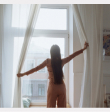
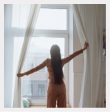
Added pictures to the Content section

Changed region(s): [[0.9545, 0.0268, 1.0, 0.9643], [0.0, 0.0268, 0.0545, 0.9643]]

diff --git a/src/components/ContentSection/ContentSection.jsx b/src/components/ContentSection/ContentSection.jsx
@@ -1,5 +1,53 @@
 import RatingBlock from "components/common/RatingBlock/RatingBlock";
 
+import firstImageMobile1 from "../../images/pictures/contentSection/image1-1x@-428.jpg";
+import firstImageMobile2 from "../../images/pictures/contentSection/image1-2x@-428.jpg";
+
+import firstImageDesctop1 from "../../images/pictures/contentSection/image1-1x@-1464.jpg";
+import firstImageDesctop2 from "../../images/pictures/contentSection/image1-2x@-1464.jpg";
+
+import secondImageMobile1 from "../../images/pictures/contentSection/image2-1x@-428.jpg";
+import secondImageMobile2 from "../../images/pictures/contentSection/image2-2x@-428.jpg";
+
+import secondImageDesctop1 from "../../images/pictures/contentSection/image2-1x@-1464.jpg";
+import secondImageDesctop2 from "../../images/pictures/contentSection/image2-2x@-1464.jpg";
+
+import thirdImageMobile1 from "../../images/pictures/contentSection/image3-1x@-428.jpg";
+import thirdImageMobile2 from "../../images/pictures/contentSection/image3-2x@-428.jpg";
+
+import thirdImageDesctop1 from "../../images/pictures/contentSection/image3-1x@-1464.jpg";
+import thirdImageDesctop2 from "../../images/pictures/contentSection/image3-2x@-1464.jpg";
+
+import fourthImageMobile1 from "../../images/pictures/contentSection/image4-1x@-428.jpg";
+import fourthImageMobile2 from "../../images/pictures/contentSection/image4-2x@-428.jpg";
+
+import fourthImageDesctop1 from "../../images/pictures/contentSection/image4-1x@-1464.jpg";
+import fourthImageDesctop2 from "../../images/pictures/contentSection/image4-2x@-1464.jpg";
+
+import fifthImageMobile1 from "../../images/pictures/contentSection/image5-1x@-428.jpg";
+import fifthImageMobile2 from "../../images/pictures/contentSection/image5-2x@-428.jpg";
+
+import fifthImageDesctop1 from "../../images/pictures/contentSection/image5-1x@-1464.jpg";
+import fifthImageDesctop2 from "../../images/pictures/contentSection/image5-2x@-1464.jpg";
+
+import sixthImageMobile1 from "../../images/pictures/contentSection/image6-1x@-428.jpg";
+import sixthImageMobile2 from "../../images/pictures/contentSection/image6-2x@-428.jpg";
+
+import sixthImageDesctop1 from "../../images/pictures/contentSection/image6-1x@-1464.jpg";
+import sixthImageDesctop2 from "../../images/pictures/contentSection/image6-2x@-1464.jpg";
+
+import seventhImageMobile1 from "../../images/pictures/contentSection/image7-1x@-428.jpg";
+import seventhImageMobile2 from "../../images/pictures/contentSection/image7-2x@-428.jpg";
+
+import seventhImageDesctop1 from "../../images/pictures/contentSection/image7-1x@-1464.jpg";
+import seventhImageDesctop2 from "../../images/pictures/contentSection/image7-2x@-1464.jpg";
+
+import eighthImageMobile1 from "../../images/pictures/contentSection/image8-1x@-428.jpg";
+import eighthImageMobile2 from "../../images/pictures/contentSection/image8-2x@-428.jpg";
+
+import eighthImageDesctop1 from "../../images/pictures/contentSection/image8-1x@-1464.jpg";
+import eighthImageDesctop2 from "../../images/pictures/contentSection/image8-2x@-1464.jpg";
+
 import {
   Section,
   Title,
@@ -19,55 +67,210 @@ export default function ContentSection() {
         consequat. Fusce non nibh luctus.
       </Text>
       <ListPhoto>
+        {/* 1 */}
         <ListPhotoItem>
-          <ListPhotoItemImage
-            src="https://cdn.pixabay.com/photo/2019/05/14/22/05/container-4203677__340.jpg"
-            alt="Description"
-          ></ListPhotoItemImage>
+          <ListPhotoItemImage>
+            <source
+              srcSet={`${firstImageDesctop1} 1x, ${firstImageDesctop2} 2x`}
+              media="(min-width:1464px)"
+            />
+            <source
+              srcSet={`${firstImageDesctop1} 1x, ${firstImageDesctop2} 2x`}
+              media="(min-width:428px)"
+            />
+            <img
+              src={firstImageMobile2}
+              loading="lazy"
+              alt="Girl"
+              width={"100px"}
+            ></img>
+          </ListPhotoItemImage>
         </ListPhotoItem>
+        {/* 2*/}
         <ListPhotoItem>
-          <ListPhotoItemImage
-            src="https://cdn.pixabay.com/photo/2019/05/14/22/05/container-4203677__340.jpg"
-            alt="Description"
-          ></ListPhotoItemImage>
+          <ListPhotoItemImage>
+            <source
+              srcSet={`${secondImageDesctop1} 1x, ${secondImageDesctop2} 2x`}
+              media="(min-width:1464px)"
+            />
+            <source
+              srcSet={`${secondImageDesctop1} 1x, ${secondImageDesctop2} 2x`}
+              media="(min-width:428px)"
+            />
+            <img
+              src={secondImageMobile2}
+              loading="lazy"
+              alt="Girl"
+              width={"100px"}
+            ></img>
+          </ListPhotoItemImage>
         </ListPhotoItem>
+        {/* 3 */}
         <ListPhotoItem>
-          <ListPhotoItemImage
-            src="https://cdn.pixabay.com/photo/2019/05/14/22/05/container-4203677__340.jpg"
-            alt="Description"
-          ></ListPhotoItemImage>
+          <ListPhotoItemImage>
+            <source
+              srcSet={`${thirdImageDesctop1} 1x, ${thirdImageDesctop2} 2x`}
+              media="(min-width:1464px)"
+            />
+            <source
+              srcSet={`${thirdImageDesctop1} 1x, ${thirdImageDesctop2} 2x`}
+              media="(min-width:428px)"
+            />
+            <img
+              src={thirdImageMobile2}
+              loading="lazy"
+              alt="Girl"
+              width={"100px"}
+            ></img>
+          </ListPhotoItemImage>
         </ListPhotoItem>
+
+        {/* 4 */}
         <ListPhotoItem>
-          <ListPhotoItemImage
-            src="https://cdn.pixabay.com/photo/2019/05/14/22/05/container-4203677__340.jpg"
-            alt="Description"
-          ></ListPhotoItemImage>
+          <ListPhotoItemImage>
+            <source
+              srcSet={`${fourthImageDesctop1} 1x, ${fourthImageDesctop2} 2x`}
+              media="(min-width:1464px)"
+            />
+            <source
+              srcSet={`${fourthImageDesctop1} 1x, ${fourthImageDesctop2} 2x`}
+              media="(min-width:428px)"
+            />
+            <img
+              src={fourthImageMobile2}
+              loading="lazy"
+              alt="Girl"
+              width={"100px"}
+            ></img>
+          </ListPhotoItemImage>
         </ListPhotoItem>
+        {/* 5 */}
         <ListPhotoItem>
-          <ListPhotoItemImage
-            src="https://cdn.pixabay.com/photo/2019/05/14/22/05/container-4203677__340.jpg"
-            alt="Description"
-          ></ListPhotoItemImage>
+          <ListPhotoItemImage>
+            <source
+              srcSet={`${fifthImageDesctop1} 1x, ${fifthImageDesctop2} 2x`}
+              media="(min-width:1464px)"
+            />
+            <source
+              srcSet={`${fifthImageDesctop1} 1x, ${fifthImageDesctop2} 2x`}
+              media="(min-width:428px)"
+            />
+            <img
+              src={fifthImageMobile2}
+              loading="lazy"
+              alt="Girl"
+              width={"100px"}
+            ></img>
+          </ListPhotoItemImage>
         </ListPhotoItem>
+        {/* 6 */}
         <ListPhotoItem>
-          <ListPhotoItemImage
-            src="https://cdn.pixabay.com/photo/2019/05/14/22/05/container-4203677__340.jpg"
-            alt="Description"
-          ></ListPhotoItemImage>
+          <ListPhotoItemImage>
+            <source
+              srcSet={`${sixthImageDesctop1} 1x, ${sixthImageDesctop2} 2x`}
+              media="(min-width:1464px)"
+            />
+            <source
+              srcSet={`${sixthImageDesctop1} 1x, ${sixthImageDesctop2} 2x`}
+              media="(min-width:428px)"
+            />
+            <img
+              src={sixthImageMobile2}
+              loading="lazy"
+              alt="Girl"
+              width={"100px"}
+            ></img>
+          </ListPhotoItemImage>
         </ListPhotoItem>
+        {/* 7 */}
         <ListPhotoItem>
-          <ListPhotoItemImage
-            src="https://cdn.pixabay.com/photo/2019/05/14/22/05/container-4203677__340.jpg"
-            alt="Description"
-          ></ListPhotoItemImage>
+          <ListPhotoItemImage>
+            <source
+              srcSet={`${seventhImageDesctop1} 1x, ${seventhImageDesctop2} 2x`}
+              media="(min-width:1464px)"
+            />
+            <source
+              srcSet={`${seventhImageDesctop1} 1x, ${seventhImageDesctop2} 2x`}
+              media="(min-width:428px)"
+            />
+            <img
+              src={seventhImageMobile2}
+              loading="lazy"
+              alt="Girl"
+              width={"100px"}
+            ></img>
+          </ListPhotoItemImage>
         </ListPhotoItem>
+        {/* 8 */}
         <ListPhotoItem>
-          <ListPhotoItemImage
-            src="https://cdn.pixabay.com/photo/2019/05/14/22/05/container-4203677__340.jpg"
-            alt="Description"
-          ></ListPhotoItemImage>
+          <ListPhotoItemImage>
+            <source
+              srcSet={`${eighthImageDesctop1} 1x, ${eighthImageDesctop2} 2x`}
+              media="(min-width:1464px)"
+            />
+            <source
+              srcSet={`${eighthImageDesctop1} 1x, ${eighthImageDesctop2} 2x`}
+              media="(min-width:428px)"
+            />
+            <img
+              src={eighthImageMobile2}
+              loading="lazy"
+              alt="Girl"
+              width={"100px"}
+            ></img>
+          </ListPhotoItemImage>
         </ListPhotoItem>
       </ListPhoto>
+      {/* <ListPhoto>
+        <ListPhotoItem>
+          <ListPhotoItemImage
+            src="https://cdn.pixabay.com/photo/2019/05/14/22/05/container-4203677__340.jpg"
+            alt="Description"
+          ></ListPhotoItemImage>
+        </ListPhotoItem>
+        <ListPhotoItem>
+          <ListPhotoItemImage
+            src="https://cdn.pixabay.com/photo/2019/05/14/22/05/container-4203677__340.jpg"
+            alt="Description"
+          ></ListPhotoItemImage>
+        </ListPhotoItem>
+        <ListPhotoItem>
+          <ListPhotoItemImage
+            src="https://cdn.pixabay.com/photo/2019/05/14/22/05/container-4203677__340.jpg"
+            alt="Description"
+          ></ListPhotoItemImage>
+        </ListPhotoItem>
+        <ListPhotoItem>
+          <ListPhotoItemImage
+            src="https://cdn.pixabay.com/photo/2019/05/14/22/05/container-4203677__340.jpg"
+            alt="Description"
+          ></ListPhotoItemImage>
+        </ListPhotoItem>
+        <ListPhotoItem>
+          <ListPhotoItemImage
+            src="https://cdn.pixabay.com/photo/2019/05/14/22/05/container-4203677__340.jpg"
+            alt="Description"
+          ></ListPhotoItemImage>
+        </ListPhotoItem>
+        <ListPhotoItem>
+          <ListPhotoItemImage
+            src="https://cdn.pixabay.com/photo/2019/05/14/22/05/container-4203677__340.jpg"
+            alt="Description"
+          ></ListPhotoItemImage>
+        </ListPhotoItem>
+        <ListPhotoItem>
+          <ListPhotoItemImage
+            src="https://cdn.pixabay.com/photo/2019/05/14/22/05/container-4203677__340.jpg"
+            alt="Description"
+          ></ListPhotoItemImage>
+        </ListPhotoItem>
+        <ListPhotoItem>
+          <ListPhotoItemImage
+            src="https://cdn.pixabay.com/photo/2019/05/14/22/05/container-4203677__340.jpg"
+            alt="Description"
+          ></ListPhotoItemImage>
+        </ListPhotoItem>
+      </ListPhoto> */}
       <p>SLIDE</p>
       <p>PAGINATION</p>
       <RatingBlock test={"Over 500+ 5 Star Reviews Online"} />

diff --git a/src/components/ContentSection/ContentSection.styled.js b/src/components/ContentSection/ContentSection.styled.js
@@ -42,17 +42,21 @@ export const Text = styled.p`
 `;
 
 export const ListPhoto = styled.ul`
-  /* display: flex;
-  flex-wrap: wrap; */
-  display: grid;
+  display: flex;
+  justify-content: center;
+  align-items: center;
+  flex-wrap: wrap;
 
-  grid-template-rows: repeat(2, [row-start] 3fr [row-end]);
-  grid-template-columns: repeat(4, [col-start] 3fr [col-end]);
+  /* display: grid; */
+  /* grid-template-rows: repeat(2, [row-start] 3fr [row-end]);
+  grid-template-columns: repeat(4, [col-start] 3fr [col-end]); */
 
   margin-right: 0;
   margin-top: 0;
 
   list-style: none;
+
+  width: 428px;
 
   padding: 0;
   @media screen and (min-width: ${({ theme }) => theme.breakpoints.desktop}) {
@@ -60,17 +64,17 @@ export const ListPhoto = styled.ul`
 `;
 
 export const ListPhotoItem = styled.li`
-  /* width: calc((100% - 3px) / 3); */
   width: 100px;
+  margin: 2px;
 
   @media screen and (min-width: ${({ theme }) => theme.breakpoints.desktop}) {
   }
 `;
 
-export const ListPhotoItemImage = styled.img`
-  display: block;
-  max-width: 100%;
-  height: auto;
+export const ListPhotoItemImage = styled.picture`
+  /* display: block; */
+  /* width: 100px;
+  height: auto; */
 
   @media screen and (min-width: ${({ theme }) => theme.breakpoints.desktop}) {
   }

diff --git a/src/components/DescribeSection/DescribeSection.jsx b/src/components/DescribeSection/DescribeSection.jsx
@@ -32,10 +32,10 @@ export default function DescribeSection() {
           <Eco />
         </ListNamesItem>
         <ListNamesItem>
-          <Canadian />
+          <Eco />
         </ListNamesItem>
         <ListNamesItem>
-          <Jillians />
+          <Eco />
         </ListNamesItem>
       </ListNames>
 
